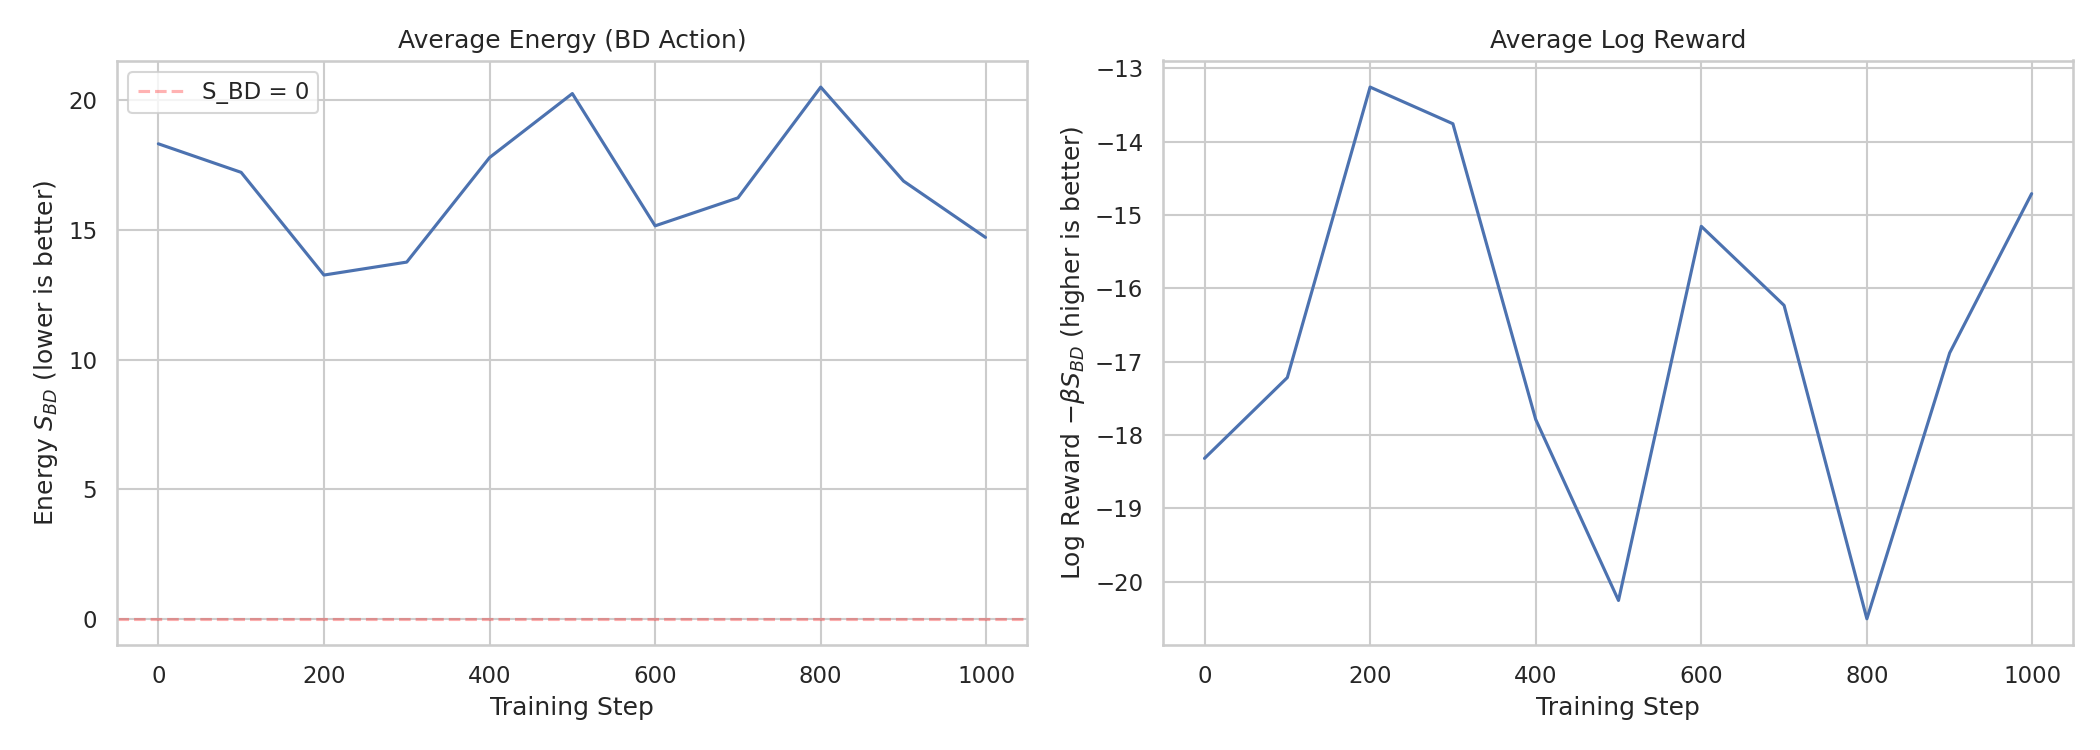
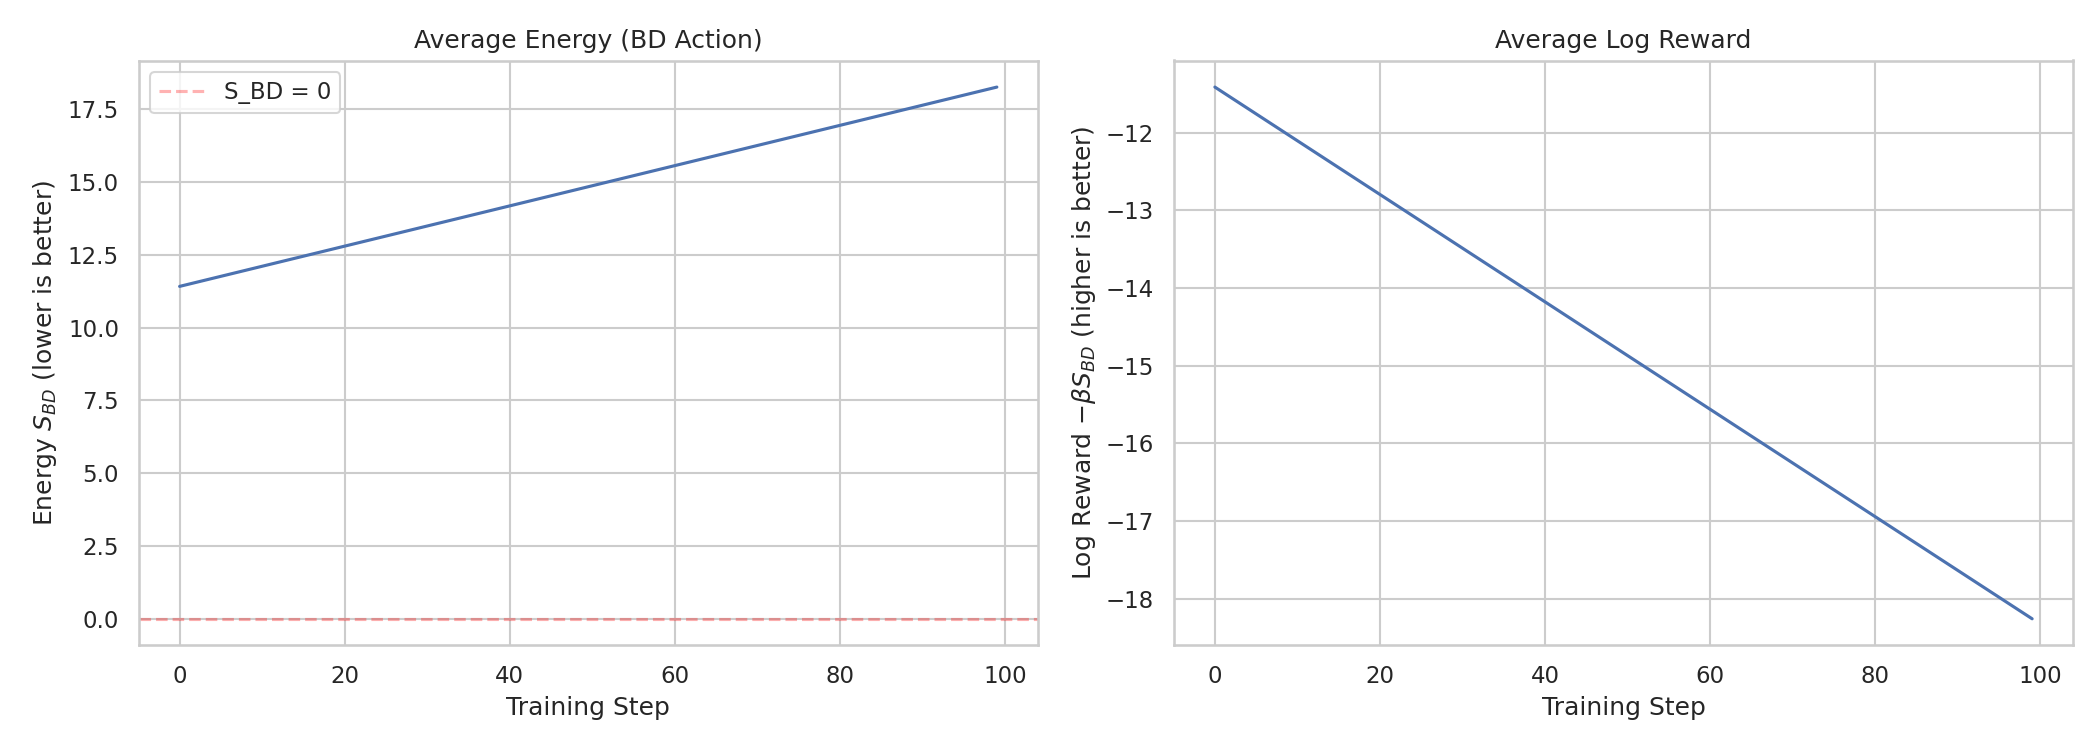
use Sub-trajectory balance and staged actions (add nodes and then add the edges)3

diff --git a/causet_env.py b/causet_env.py
@@ -419,8 +419,8 @@ class CausalSetEnv(Env):
                 final_states.tensor,
                 self.max_nodes
             )
-            # Log reward = energy (lower energy = higher reward)
-            return energies
+            # Log reward = -energy (lower energy = higher reward)
+            return -energies
         else:
             # Fallback to sequential (for MMD ablation or old proxy)
             rewards = []
@@ -437,7 +437,7 @@ class CausalSetEnv(Env):
                 else:
                     g = self._state_to_graph(state)
                     energy = self.proxy.get_energy(g)
-                    rewards.append(energy)
+                    rewards.append(-energy)
 
             return torch.tensor(rewards, dtype=torch.float, device=self._device)
 
